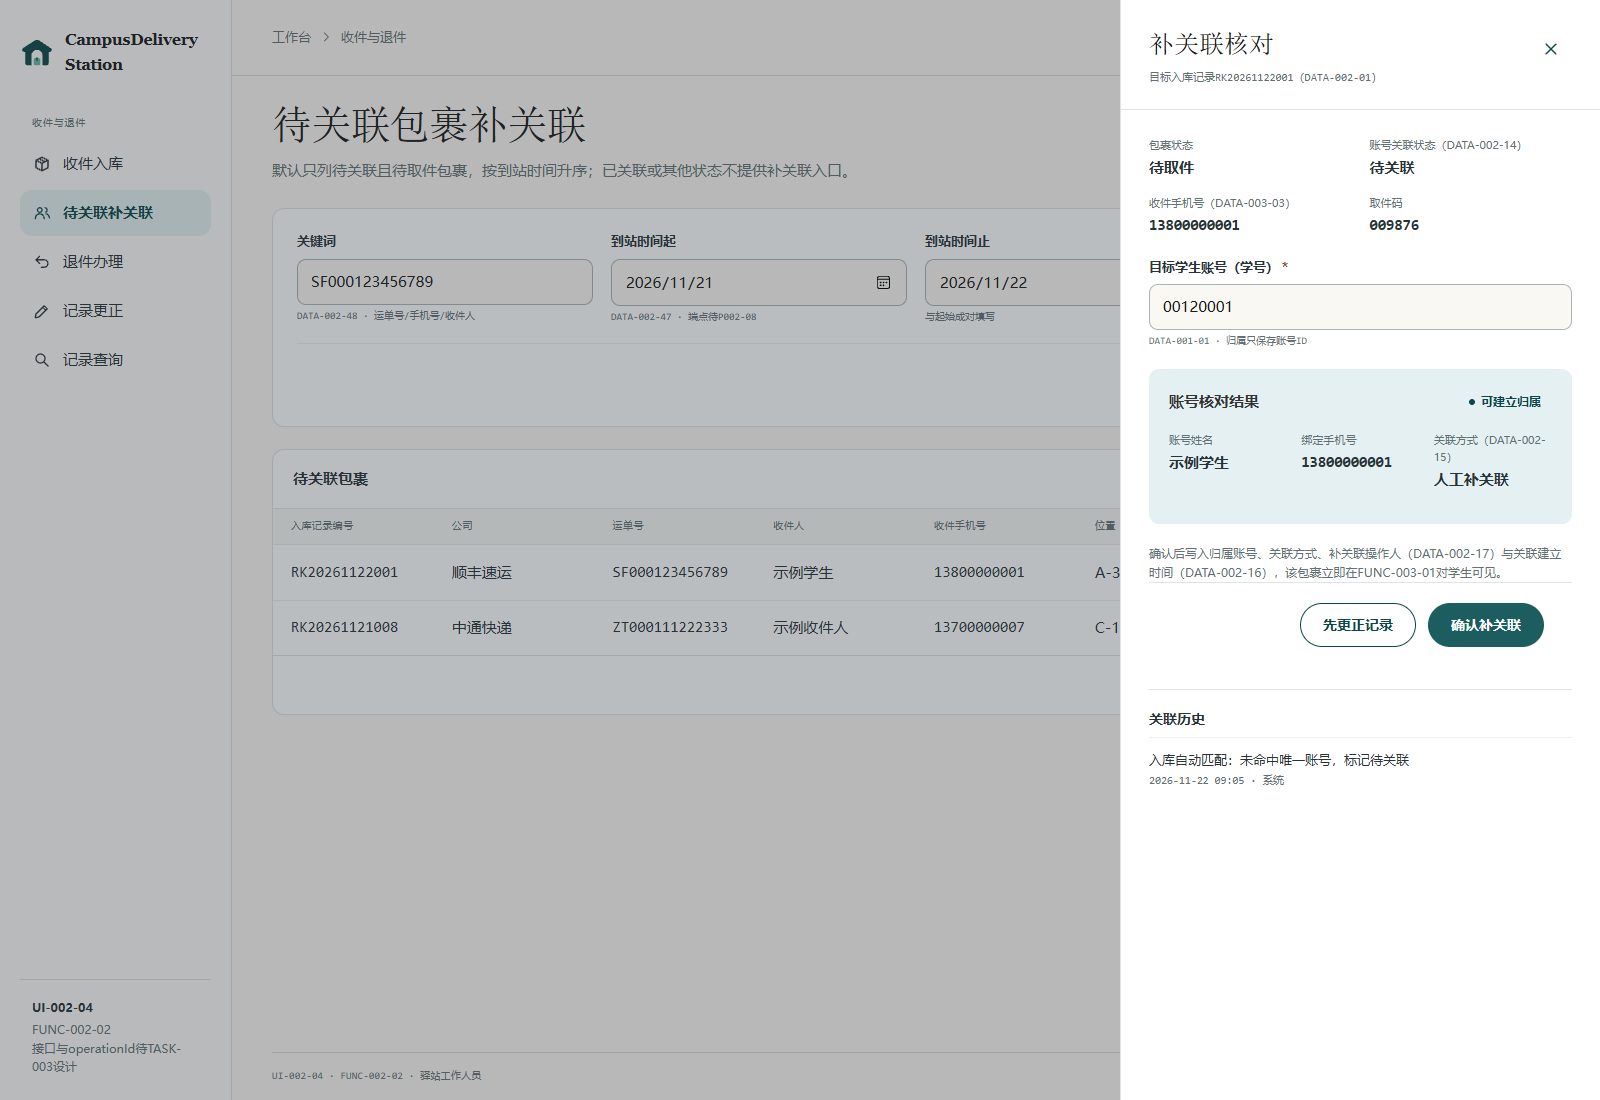
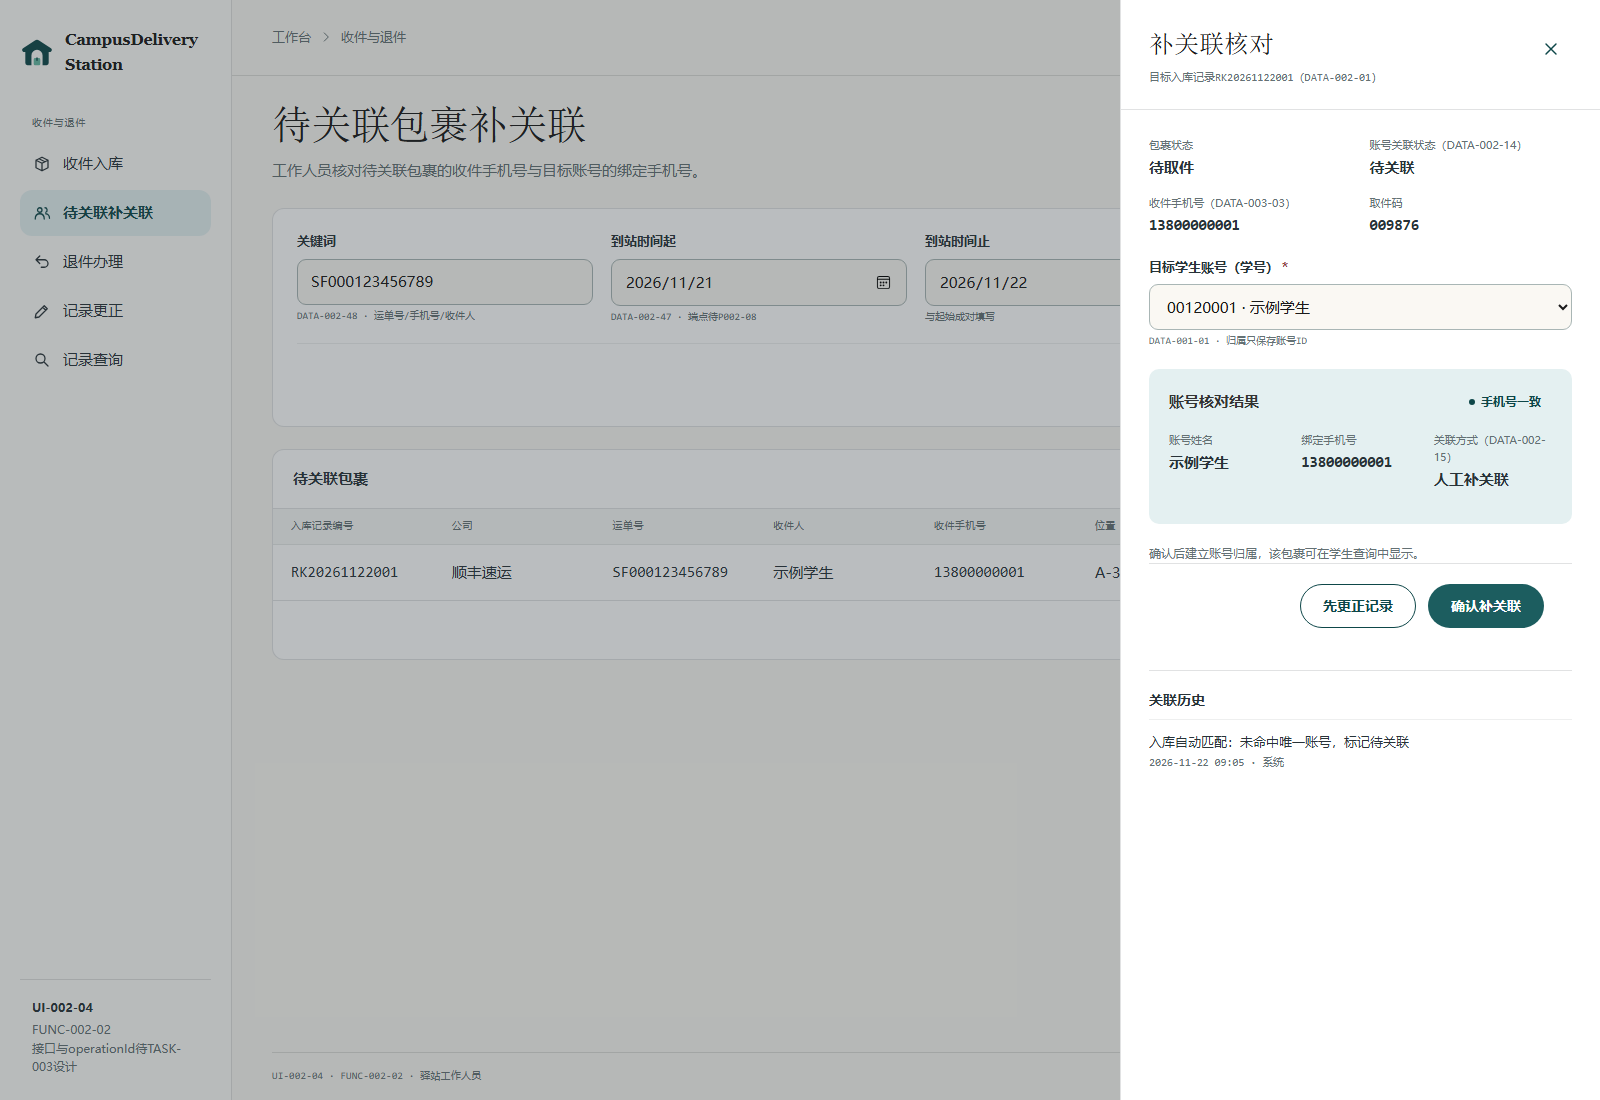
doc(prototype):完善REQ-002补关联原型

diff --git a/docs/requirements/prototypes/任奕阳_REQ-002/prototype.js b/docs/requirements/prototypes/任奕阳_REQ-002/prototype.js
@@ -257,32 +257,34 @@ function intakeSuccessPage(record) {
 }
 
 /* FUNC-002-02 补关联 */
-function pendingRows() {
-  return `<tr><td class="mono">RK20261122001</td><td>顺丰速运</td><td class="mono">SF000123456789</td><td>示例学生</td><td class="mono">13800000001</td><td>A-3</td><td class="mono">2026-11-22 09:05</td><td><div class="row-actions"><button class="button-text" type="button" data-action="open-link">补关联</button></div></td></tr>
-  <tr><td class="mono">RK20261121008</td><td>中通快递</td><td class="mono">ZT000111222333</td><td>示例收件人</td><td class="mono">13700000007</td><td>C-1</td><td class="mono">2026-11-21 15:26</td><td><div class="row-actions"><button class="button-text" type="button" data-action="open-link">补关联</button></div></td></tr>`;
+function linkReview(account, matching) {
+  const feedback = matching ? `<p class="inline-note">确认后建立账号归属，该包裹可在学生查询中显示。</p>` :
+    `<div class="form-alert" role="alert">${icon("alert")}<div><strong>不能确认补关联</strong><p>收件手机号与账号的绑定手机号不一致。请核对账号，包裹信息有误时先更正记录。</p></div></div>`;
+  return `<div class="identity-card"><div class="identity-card__title"><strong>账号核对结果</strong><span class="status-badge${matching ? "" : " warning"}">${matching ? "手机号一致" : "手机号不一致"}</span></div>
+    <dl class="identity-grid"><div><dt>账号姓名</dt><dd>${account.name}</dd></div><div><dt>绑定手机号</dt><dd class="mono">${account.phone}</dd></div><div><dt>关联方式（DATA-002-15）</dt><dd>人工补关联</dd></div></dl>
+  </div>${feedback}`;
 }
 
-function linkingPage(mismatch) {
-  const page = pages[mismatch ? "linking-mismatch" : "linking"];
+function linkingPage(account, showDrawer = true) {
+  const record = initialRecords[0];
+  const matching = account.phone === record.phone;
+  const accounts = intakeAccounts.map(option => `<option value="${option.account}"${option === account ? " selected" : ""}>${option.account} · ${option.name}</option>`).join("");
   const list = demoState === "normal" ? `<div class="table-scroll"><table class="data-table">
       <thead><tr><th>入库记录编号</th><th>公司</th><th>运单号</th><th>收件人</th><th>收件手机号</th><th>位置</th><th>到站时间</th><th>操作</th></tr></thead>
-      <tbody>${pendingRows()}</tbody></table></div>${pagination(2)}` : listStateBlock("没有符合条件的待关联包裹。");
-  const drawer = `<div class="overlay"></div><aside class="drawer" role="dialog" aria-modal="true" aria-labelledby="link-title">
-    <div class="drawer-header"><div><h2 id="link-title">补关联核对</h2><span class="function-tag">目标入库记录RK20261122001（DATA-002-01）</span></div><button class="icon-button" type="button" data-route="linking" aria-label="关闭">${icon("close")}</button></div>
+      <tbody><tr><td class="mono">${record.id}</td><td>${record.company}</td><td class="mono">${record.tracking}</td><td>${record.receiver}</td><td class="mono">${record.phone}</td><td>${record.location}</td><td class="mono">${record.arrivedAt}</td><td><div class="row-actions"><button class="button-text" type="button" data-route="linking">补关联</button></div></td></tr></tbody></table></div>${pagination(1)}` : listStateBlock("没有符合条件的待关联包裹。");
+  const drawer = showDrawer && demoState === "normal" ? `<div class="overlay"></div><aside class="drawer link-drawer" role="dialog" aria-modal="true" aria-labelledby="link-title">
+    <div class="drawer-header"><div><h2 id="link-title">补关联核对</h2><span class="function-tag">目标入库记录${record.id}（DATA-002-01）</span></div><button class="icon-button" type="button" data-route="linking/list" aria-label="关闭">${icon("close")}</button></div>
     <div class="drawer-body">
-      <dl class="detail-grid"><div><dt>包裹状态</dt><dd>待取件</dd></div><div><dt>账号关联状态（DATA-002-14）</dt><dd>待关联</dd></div><div><dt>收件手机号（DATA-003-03）</dt><dd class="mono">13800000001</dd></div><div><dt>取件码</dt><dd class="mono">009876</dd></div></dl>
+      <dl class="detail-grid"><div><dt>包裹状态</dt><dd>${record.status}</dd></div><div><dt>账号关联状态（DATA-002-14）</dt><dd>待关联</dd></div><div><dt>收件手机号（DATA-003-03）</dt><dd class="mono">${record.phone}</dd></div><div><dt>取件码</dt><dd class="mono">009876</dd></div></dl>
       <form id="link-form" novalidate>
-        ${field("目标学生账号（学号）", "DATA-001-01 · 归属只保存账号ID", `<input name="account" id="link-account" value="${mismatch ? "00120002" : "00120001"}" autocomplete="off">`)}
-        <div class="identity-card"><div class="identity-card__title"><strong>账号核对结果</strong><span class="status-badge ${mismatch ? "warning" : ""}">${mismatch ? "手机号不一致" : "可建立归属"}</span></div>
-          <dl class="identity-grid"><div><dt>账号姓名</dt><dd>${mismatch ? otherStudent.name : student.name}</dd></div><div><dt>绑定手机号</dt><dd class="mono">${mismatch ? otherStudent.phone : student.phone}</dd></div><div><dt>关联方式（DATA-002-15）</dt><dd>人工补关联</dd></div></dl>
-        </div>
-        ${mismatch ? `<div class="form-alert" role="alert">${icon("alert")}<div><strong>不能确认补关联</strong><p>收件手机号与账号绑定手机号不一致，请核对后再办理；如包裹信息有误请先更正记录。</p></div></div>` : `<p class="inline-note">确认后写入归属账号、关联方式、补关联操作人（DATA-002-17）与关联建立时间（DATA-002-16），该包裹立即在FUNC-003-01对学生可见。</p>`}
-        <div class="drawer-footer"><button class="button button-secondary" type="button" data-route="correction">先更正记录</button><button class="button button-primary" type="submit" ${mismatch ? "disabled" : ""}>确认补关联</button></div>
+        <div class="field"><label for="link-account">目标学生账号（学号）<span class="required" aria-hidden="true">*</span></label><select name="account" id="link-account">${accounts}</select><span class="data-ref">DATA-001-01 · 归属只保存账号ID</span></div>
+        <div id="link-review" aria-live="polite">${linkReview(account, matching)}</div>
+        <div class="drawer-footer"><button class="button button-secondary" type="button" data-route="correction/${record.id}">先更正记录</button><button class="button button-primary" type="submit" ${matching ? "" : "disabled"}>确认补关联</button></div>
       </form>
-      <section class="detail-section"><h3>关联历史</h3><ul class="history-list"><li>入库自动匹配：未命中唯一账号，标记待关联<small class="mono">2026-11-22 09:05 · 系统</small></li></ul></section>
+      <section class="detail-section"><h3>关联历史</h3><ul class="history-list"><li>入库自动匹配：未命中唯一账号，标记待关联<small class="mono">${record.arrivedAt} · 系统</small></li></ul></section>
     </div>
-  </aside>`;
-  return pageHeading(page, "默认只列待关联且待取件包裹，按到站时间升序；已关联或其他状态不提供补关联入口。") +
+  </aside>` : "";
+  return pageHeading(pages.linking, "工作人员核对待关联包裹的收件手机号与目标账号的绑定手机号。") +
     `<section class="filter-card"><div class="filter-grid">
       <div class="field"><label for="link-keyword">关键词</label><input id="link-keyword" value="SF000123456789"><span class="data-ref">DATA-002-48 · 运单号/手机号/收件人</span></div>
       <div class="field"><label for="link-from">到站时间起</label><input id="link-from" type="date" value="2026-11-21"><span class="data-ref">DATA-002-47 · 端点待P002-08</span></div>
@@ -497,8 +499,8 @@ function render() {
   if (route === "intake") html = intakePage();
   else if (route === "intake-duplicate") html = intakePage() + duplicateDialog(recordId ? record : initialRecords[0]);
   else if (route === "intake-success") html = intakeSuccessPage(recordId ? record : intakeExample);
-  else if (route === "linking") html = linkingPage(false);
-  else if (route === "linking-mismatch") html = linkingPage(true);
+  else if (route === "linking") html = linkingPage(student, recordId !== "list");
+  else if (route === "linking-mismatch") html = linkingPage(otherStudent);
   else if (route === "returns") html = returnsPage(record, recordId);
   else if (route === "return-start") html = returnStartPage();
   else if (route === "return-manual") html = returnManualPage();
@@ -603,10 +605,15 @@ function handleIntake(form) {
 }
 
 function handleLink(form) {
-  const account = form.elements.account;
-  if (!account.value) { setFieldError(account, "请填写目标学生账号。"); account.focus(); return; }
-  if (account.value !== student.account) { window.location.hash = "linking-mismatch"; return; }
-  submitWithFeedback(form, () => showToast("运单号SF000123456789已关联至账号00120001（姓名：示例学生），该包裹现可被学生查询。"));
+  const record = initialRecords[0];
+  const input = form.elements.account;
+  const account = intakeAccounts.find(option => option.account === input.value);
+  if (input.disabled || account?.phone !== record.phone) return;
+  input.disabled = true;
+  submitWithFeedback(form, () => {
+    input.disabled = false;
+    showToast(`演示确认通过。运单号${record.tracking}可关联至账号${account.account}。`);
+  });
 }
 
 function handleReturn(form) {
@@ -703,7 +710,6 @@ document.addEventListener("click", event => {
     intakeDraft = { company: record.company, location: record.location, tracking: "", receiver: "", phone: "" };
     window.location.hash = "intake";
   }
-  if (action === "open-link") window.location.hash = "linking";
   if (action === "finish-return") {
     const record = findRecord(actionButton.dataset.recordId);
     if (record?.status !== "退件中" || !record.returnInfo) return;
@@ -724,6 +730,15 @@ document.addEventListener("click", event => {
   }
   if (action === "search") showToast("已按当前条件刷新待关联清单。");
   if (action === "retry") { demoState = "normal"; render(); }
+});
+
+document.getElementById("app").addEventListener("change", event => {
+  const input = event.target;
+  if (input.id !== "link-account") return;
+  const account = intakeAccounts.find(option => option.account === input.value);
+  const matching = account.phone === initialRecords[0].phone;
+  input.form.querySelector("#link-review").innerHTML = linkReview(account, matching);
+  input.form.querySelector('[type="submit"]').disabled = !matching;
 });
 
 document.addEventListener("submit", event => {

diff --git a/docs/requirements/prototypes/任奕阳_REQ-002/prototype.css b/docs/requirements/prototypes/任奕阳_REQ-002/prototype.css
@@ -205,7 +205,7 @@ h3 { margin-bottom: 8px; color: var(--ink); font-size: 16px; }
 .export .overlay { position: absolute; }
 .drawer { position: fixed; z-index: 70; top: 0; right: 0; bottom: 0; width: min(480px, 100vw); display: flex; flex-direction: column; background: var(--surface); border-left: 1px solid var(--line); }
 .export .drawer { position: absolute; }
-.record-detail-drawer, .return-start-drawer { z-index: 90; }
+.record-detail-drawer, .return-start-drawer, .link-drawer { z-index: 90; }
 .drawer-header { display: flex; align-items: flex-start; justify-content: space-between; gap: 16px; padding: 28px 28px 22px; border-bottom: 1px solid var(--line); }
 .drawer-header h2 { margin: 0 0 4px; }
 .drawer-body { padding: 26px 28px; overflow-y: auto; flex: 1; }

diff --git a/docs/management/team.md b/docs/management/team.md
@@ -51,6 +51,7 @@
 
 | 日期 | 关联任务 | 关键进展 |
 | --- | --- | --- |
+| 2026-11-22 | TASK-002 | 按杨振煜确认，用同一包裹和两个预置账号演示REQ-002补关联手机号核对。Edge验证匹配与不匹配可双向切换，提示及确认按钮同步变化，更正入口沿用包裹编号，三档视口通过。更新UI-002-04、UI-002-05和[原型说明](../requirements/prototypes/任奕阳_REQ-002/REQ-002_界面原型说明.md#页面与功能对应)。TASK-002继续进行。 |
 | 2026-11-22 | TASK-002 | 按杨振煜确认，用同一条合成包裹演示REQ-002学生拒收退件的“拒收待退件→退件中→已退件”。Edge核对工作人员的开始和完成入口、管理员只读、编号与状态一致及三档视口，更新[退件原型说明和相关截图](../requirements/prototypes/任奕阳_REQ-002/REQ-002_界面原型说明.md#页面与功能对应)。TASK-002继续进行。 |
 | 2026-11-22 | TASK-002、TASK-011 | 按杨振煜确认修订REQ-002收件退件查询。工作人员和管理员可按状态、关联状态、到站日期及关键词组合筛选，详情返回保留查询条件和页码。Edge复测无匹配、非法条件、日期边界、两种角色和三档视口，并以23条合成匹配记录验证分页。重导UI-002-10及UI-002-11。结果见[原型说明](../requirements/prototypes/任奕阳_REQ-002/REQ-002_界面原型说明.md#打开方式与已执行检查)。TASK-002继续进行。 |
 | 2026-11-22 | TASK-002、TASK-011 | 按杨振煜确认修订REQ-002入库演示。成功提示、取件码标签和最近入库清单引用同一笔登记，手机号未匹配唯一账号时显示待关联，继续入库保留公司和位置。Edge复测账号匹配分支、查重与重复提交、连续入库和三档视口，重导UI-002-01～03。结果见[原型说明](../requirements/prototypes/任奕阳_REQ-002/REQ-002_界面原型说明.md#打开方式与已执行检查)。TASK-002继续进行。 |
